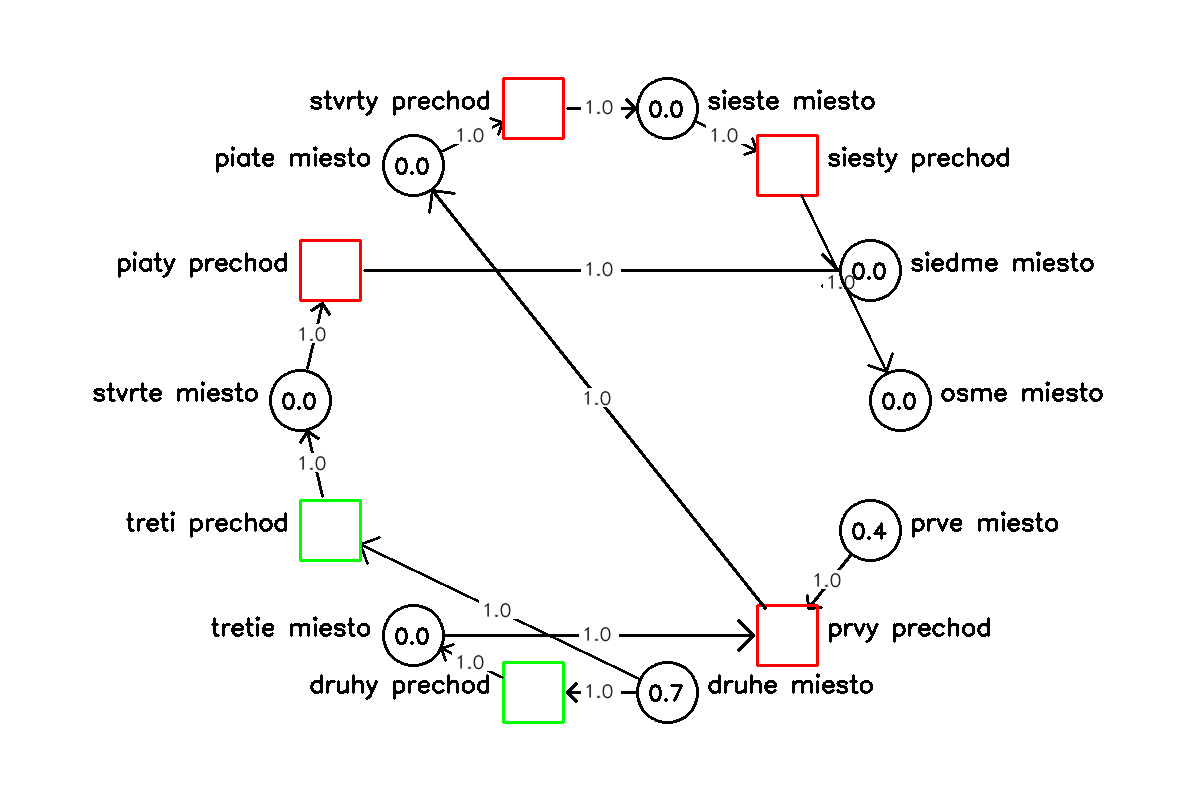
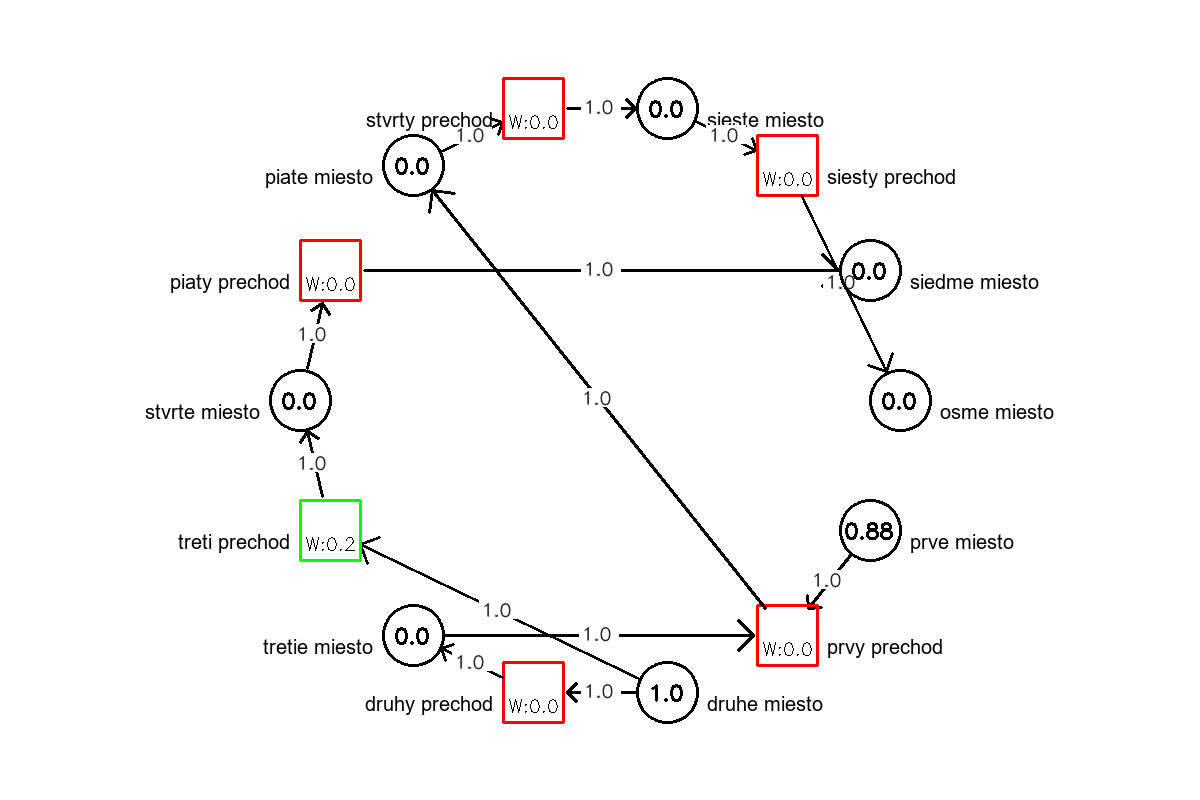
diakritics

diff --git a/main.py b/main.py
@@ -1,3 +1,4 @@
+from PIL import Image, ImageDraw, ImageFont
 from math import sin, cos, pi, atan2, sqrt
 import bcrypt
 import cv2
@@ -162,6 +163,14 @@ class MainAplication(QMainWindow):
         self.main_layout.time_actual.setText(formatted_time)
 
     def resizeEvent(self, event):
+
+        if os.path.exists('./images/0.png'):
+            prem = QImage('./images/0.png')
+            pixmap = QPixmap.fromImage(prem)
+            self.main_layout.photo.setPixmap(pixmap.scaled(self.main_layout.photo.size(
+            ), QtCore.Qt.KeepAspectRatio, QtCore.Qt.SmoothTransformation))
+            self.main_layout.photo.setAlignment(QtCore.Qt.AlignCenter)
+
         if len(self.image_dict) > 0:
             prem = QImage(self.image_dict[self.image_number])
             pixmap = QPixmap.fromImage(prem)
@@ -187,6 +196,12 @@ class MainAplication(QMainWindow):
         print(self.main_layout.comboBox.currentText())
 
     def run(self):
+        if self.main_layout.photo != None:
+            self.main_layout.photo.clear()
+        files = glob.glob('./images/*')
+        if files != None:
+            for f in files:
+                os.remove(f)
         if self.file_path:
             self.openAnotherWindow()
             self.tree = ET.parse(self.file_path)
@@ -232,9 +247,20 @@ class MainAplication(QMainWindow):
                 self.fuzzy_flag = 0
             self.net = loading_data(
                 self.file_name, self.fuzzy_flag, self.weights_flag, self.tresholds_flag, 0)
+            self.dict_final = {}
+            self.dict_weights = {}
+            self.dict_tresholds = {}
+            self.dict_marks = {}
+            self.dict_places = {}
+            self.dict_transitions = {}
             self.draw_net_initial()
             self.setting_first_image()
-
+            self.dict_weights = {}
+            self.dict_tresholds = {}
+            self.dict_marks = {}
+            self.dict_places = {}
+            self.dict_transitions = {}
+            self.dict_final = {}
             if self.main_layout.comboBox.currentText() == "Logická Petriho sieť":
                 self.logical_flag = 1
                 self.fuzzy_flag = 0
@@ -276,6 +302,7 @@ class MainAplication(QMainWindow):
 
     def run_final(self):
         l = 0
+        self.dict_final = {}
         self.k = 0
         self.main_layout.prevButton.setEnabled(False)
         self.main_layout.nextButton.setEnabled(True)
@@ -731,6 +758,9 @@ class MainAplication(QMainWindow):
             self.dict_final[dict_keys[i-1]]["suradnice"] = {
                 "main_coords": (round(x + x1), round(y + y1))}
         self.generate_image_initial()
+        self.dict_final = {}
+        self.missing_places = []
+        self.missing_transitions = []
 
     def draw_net(self, weights=False, thresholds=False):
         graph_data = {
@@ -992,11 +1022,14 @@ class MainAplication(QMainWindow):
                 pos = "left"
 
             if self.dict_final[i]["typ"] == 'p':
-
                 cv2.circle(img, (x1, y1), 30, (0, 0, 0), 2)
-
-                text_size, _ = cv2.getTextSize(
-                    str(self.dict_final[i]['hodnoty'][0]['label']), cv2.FONT_HERSHEY_SIMPLEX, 0.8, 2)
+                img_pil = Image.fromarray(img)
+                draw = ImageDraw.Draw(img_pil)
+                font = ImageFont.truetype("arial.ttf", 20)
+                text = str(self.dict_final[i]['hodnoty'][0]['label'])
+                text_bbox = draw.textbbox((0, 0), text, font=font)
+                text_size = (text_bbox[2] - text_bbox[0],
+                             text_bbox[3] - text_bbox[1])
                 if pos == "right":
                     text_pos = (x1 + 40, y1)
                 elif pos == "left":
@@ -1007,8 +1040,8 @@ class MainAplication(QMainWindow):
                 else:
                     text_pos = (x1 - text_size[0] //
                                 2, y1 - 50 - text_size[1] // 2)
-                cv2.putText(img, str(self.dict_final[i]['hodnoty'][0]['label']), text_pos,
-                            cv2.FONT_HERSHEY_SIMPLEX, 0.8, (0, 0, 0), 2)
+                draw.text(text_pos, text, (0, 0, 0), font=font)
+                img = np.array(img_pil)
                 if self.dict_final[i]['sipky']:
                     for j in self.dict_final[i]['sipky']:
                         x2 = self.dict_final[j]["suradnice"]["main_coords"][0]
@@ -1043,9 +1076,13 @@ class MainAplication(QMainWindow):
                 color = (0, 0, 255)
                 cv2.rectangle(img, (x1 - 30, y1 - 30),
                               (x1 + 30, y1 + 30), color, 2)
-
-                text_size, _ = cv2.getTextSize(
-                    str(self.dict_final[i]['hodnoty'][0]['label']), cv2.FONT_HERSHEY_SIMPLEX, 0.8, 2)
+                img_pil = Image.fromarray(img)
+                draw = ImageDraw.Draw(img_pil)
+                font = ImageFont.truetype("arial.ttf", 20)
+                text = str(self.dict_final[i]['hodnoty'][0]['label'])
+                text_bbox = draw.textbbox((0, 0), text, font=font)
+                text_size = (text_bbox[2] - text_bbox[0],
+                             text_bbox[3] - text_bbox[1])
                 if pos == "right":
                     text_pos = (x1 + 40, y1)
                 elif pos == "left":
@@ -1057,8 +1094,9 @@ class MainAplication(QMainWindow):
                     text_pos = (x1 - text_size[0] //
                                 2, y1 - 50 - text_size[1] // 2)
 
-                cv2.putText(img, str(self.dict_final[i]['hodnoty'][0]['label']), text_pos,
-                            cv2.FONT_HERSHEY_SIMPLEX, 0.8, (0, 0, 0), 2)
+                draw.text(text_pos, text, (0, 0, 0), font=font)
+                img = np.array(img_pil)
+
                 if self.dict_final[i]['sipky']:
                     for j in self.dict_final[i]['sipky']:
                         x2 = self.dict_final[j]["suradnice"]["main_coords"][0]
@@ -1114,8 +1152,14 @@ class MainAplication(QMainWindow):
                             cv2.FONT_HERSHEY_SIMPLEX, 0.7, (0, 0, 0), 2)
                 cv2.circle(img, (x1, y1), 30, (0, 0, 0), 2)
 
-                text_size, _ = cv2.getTextSize(
-                    str(self.dict_final[i]['hodnoty'][0]['label']), cv2.FONT_HERSHEY_SIMPLEX, 0.8, 2)
+                img_pil = Image.fromarray(img)
+                draw = ImageDraw.Draw(img_pil)
+                font = ImageFont.truetype("arial.ttf", 20)
+                text = str(self.dict_final[i]['hodnoty'][0]['label'])
+                text_bbox = draw.textbbox((0, 0), text, font=font)
+                text_size = (
+                    text_bbox[2] - text_bbox[0], text_bbox[3] - text_bbox[1])
+
                 if pos == "right":
                     text_pos = (x1 + 40, y1)
                 elif pos == "left":
@@ -1126,8 +1170,10 @@ class MainAplication(QMainWindow):
                 else:
                     text_pos = (x1 - text_size[0] //
                                 2, y1 - 50 - text_size[1] // 2)
-                cv2.putText(img, str(self.dict_final[i]['hodnoty'][0]['label']), text_pos,
-                            cv2.FONT_HERSHEY_SIMPLEX, 0.8, (0, 0, 0), 2)
+
+                draw.text(text_pos, text, (0, 0, 0), font=font)
+                img = np.array(img_pil)
+
                 if self.dict_final[i]['sipky']:
                     for j in self.dict_final[i]['sipky']:
                         x2 = self.dict_final[j]["suradnice"]["main_coords"][0]
@@ -1163,9 +1209,14 @@ class MainAplication(QMainWindow):
                     0, 255, 0) if self.dict_final[i]["hodnoty"][self.image_index - 1]["farba"] else (0, 0, 255)
                 cv2.rectangle(img, (x1 - 30, y1 - 30),
                               (x1 + 30, y1 + 30), color, 2)
+                img_pil = Image.fromarray(img)
+                draw = ImageDraw.Draw(img_pil)
+                font = ImageFont.truetype("arial.ttf", 20)
+                text = str(self.dict_final[i]['hodnoty'][0]['label'])
+                text_bbox = draw.textbbox((0, 0), text, font=font)
+                text_size = (
+                    text_bbox[2] - text_bbox[0], text_bbox[3] - text_bbox[1])
 
-                text_size, _ = cv2.getTextSize(
-                    str(self.dict_final[i]['hodnoty'][0]['label']), cv2.FONT_HERSHEY_SIMPLEX, 0.8, 2)
                 if pos == "right":
                     text_pos = (x1 + 40, y1)
                 elif pos == "left":
@@ -1176,6 +1227,9 @@ class MainAplication(QMainWindow):
                 else:
                     text_pos = (x1 - text_size[0] //
                                 2, y1 - 50 - text_size[1] // 2)
+
+                draw.text(text_pos, text, (0, 0, 0), font=font)
+                img = np.array(img_pil)
 
                 threshold_text = self.dict_final[i]["hodnoty"][self.image_index -
                                                                1]["prah"] if self.dict_final[i]["hodnoty"][self.image_index - 1].get("prah") else None
@@ -1188,8 +1242,6 @@ class MainAplication(QMainWindow):
                     cv2.putText(img, f"W:{str(weights_text)}", (x1-25, y1+20),
                                 cv2.FONT_HERSHEY_SIMPLEX, 0.6, (0, 0, 0), 1)
 
-                cv2.putText(img, str(self.dict_final[i]['hodnoty'][0]['label']), text_pos,
-                            cv2.FONT_HERSHEY_SIMPLEX, 0.8, (0, 0, 0), 2)
                 if self.dict_final[i]['sipky']:
                     for j in self.dict_final[i]['sipky']:
                         x2 = self.dict_final[j]["suradnice"]["main_coords"][0]
@@ -2057,6 +2109,10 @@ class DialogWindow(QtWidgets.QDialog):
         if hashed_str.encode('utf-8') == hashed:
             self.main_layout.close()
             self.main_application = MainAplication()
+            files = glob.glob('./images/*')
+            if files != None:
+                for f in files:
+                    os.remove(f)
             self.main_application.database_output_table1 = self.patient_records
             self.main_application.main_layout.table.setColumnCount(7)
             self.main_application.main_layout.table.setHorizontalHeaderLabels(
